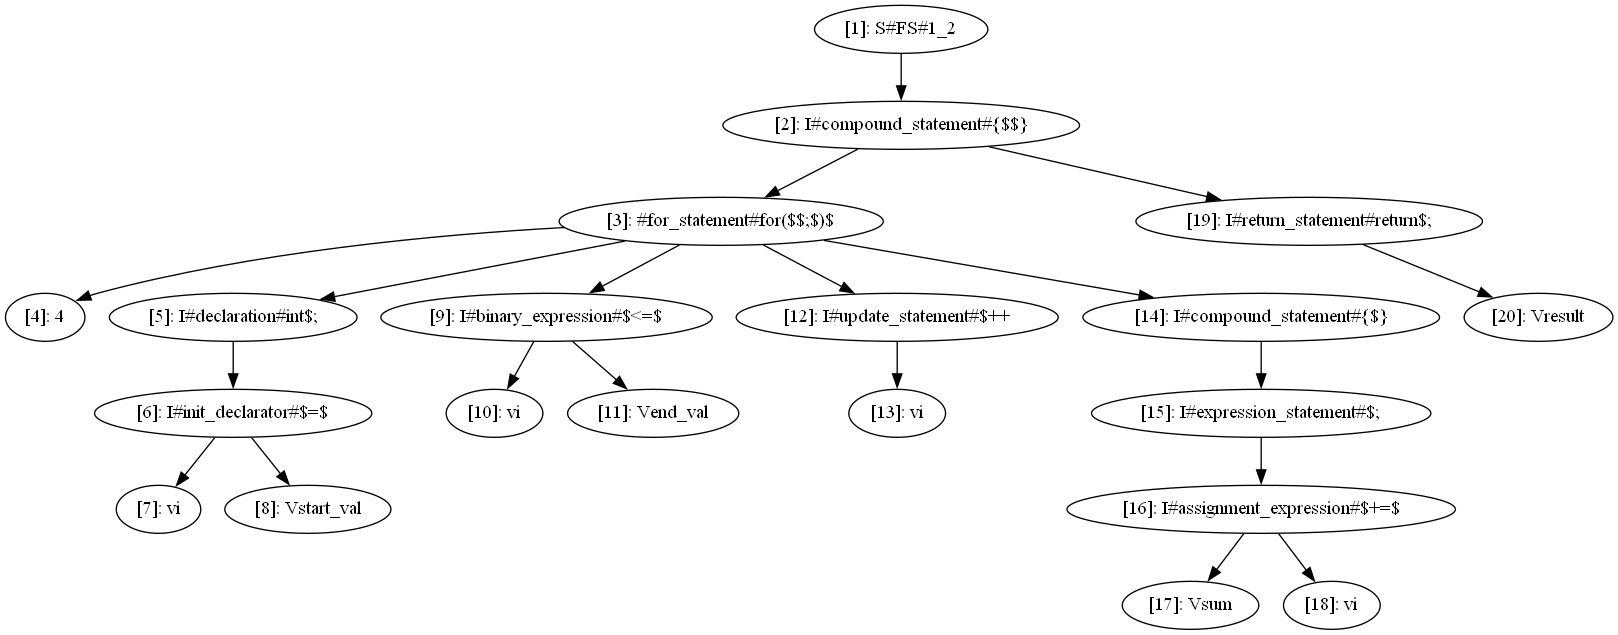
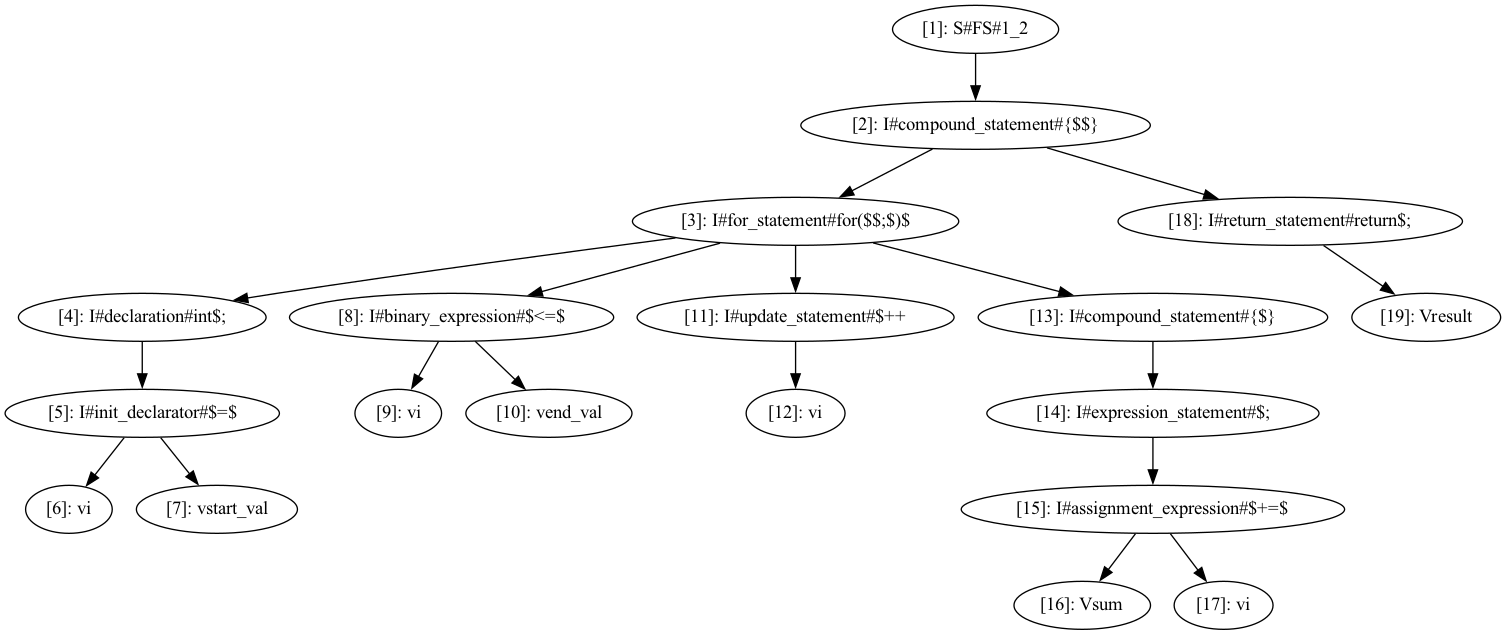
most global var declerations fixed

diff --git a/MyCASSVisitor.py b/MyCASSVisitor.py
@@ -65,56 +65,60 @@ class MyCassVisitor(CASSVisitor):
 
     def visitFunctionDefinition(self, ctx: CASSParser.FunctionDefinitionContext):
         """
-        We differentiate between a function defined at global scope vs. 
-        one defined inside another function (nested).
+        If we're at the top (most global) level, we produce an "S#FS#..." node.
+        If it's nested (within another function), we produce an "I#function_definition#...".
+        But in both cases, we push a scope so that parameters and local variables become local.
         """
-
+        # 1) Push a new scope so that parameters/locals are recognized as local
         self.scopes.append(set())
-        # Determine if we are at global scope by checking if self.scopes is empty
         in_global_scope = (len(self.scopes) == 1)
 
-        # Get the textual type (e.g. "int", "float", "void", etc.)
-        
-        func_type_text = ctx.typeSpec().getText()       
-        params_num = len(ctx.parameterList().parameter()) if (ctx.parameterList()) else 0
+        # 2) Build the function node label
+        func_type_text = ctx.typeSpec().getText()
+        params_num = 0
+        if ctx.parameterList():
+            params_num = len(ctx.parameterList().parameter())
 
         if in_global_scope:
-            
+            # This is the very first function => produce "S#FS#..." style
             func_type = 0 if func_type_text == 'void' else 1
+            # Possibly clamp param count
             if params_num > 2:
                 params_num = 2
-
-            # first function starting the programgets a function signature node
             node = CassNode(f"S#FS#{func_type}_{params_num}")
-
         else:
-            
-            # nested functions get more detailed context 
-
-            # contains the return type and 2*$ representing two child nodes:
-            # -> function declarator
-            # -> compound statement { * }
+            # Nested function => produce "I#function_definition#..." style
             node = CassNode(f"I#function_definition#{func_type_text}$$")
 
+       
+        if not in_global_scope:
+            # Create "I#function_declarator#$$" or similar
             if params_num == 0:
                 decl_label = "I#function_declarator#$()"
             else:
                 decl_label = "I#function_declarator#$$"
-            declarator_node = CassNode(decl_label)
+            decl_node = CassNode(decl_label)
 
+            # The function name (the grammar has "primaryExpression" after typeSpec)
             func_name = ctx.primaryExpression().getText()
-            declarator_node.add_child(CassNode(f"v{func_name}"))
+            decl_node.add_child(CassNode(f"v{func_name}"))
 
+            # If there are parameters, build the param list (which also adds them to scope)
             if ctx.parameterList():
                 param_list_node = self.visitParameterList(ctx.parameterList())
-                declarator_node.add_child(param_list_node)
+                decl_node.add_child(param_list_node)
 
-            node.add_child(declarator_node)
+            node.add_child(decl_node)
+        else:
+           
+            if ctx.parameterList():
+                self.visitParameterList(ctx.parameterList())  # Adds param names to scope
 
-    
+        # 4) Visit the compound statement so local declarations become part of the scope
         block_node = self.visit(ctx.compoundStatement())
         node.add_child(block_node)
 
+        # 5) Pop the scope after finishing
         self.scopes.pop()
 
         return node
@@ -199,6 +203,8 @@ class MyCassVisitor(CASSVisitor):
 
 
     def visitForBlockStatement(self, ctx: CASSParser.ForBlockStatementContext):
+
+        
     
         for_node = CassNode(f"I#for_statement#for($$;$)$")
         #for_node.add_child(CassNode("4"))
